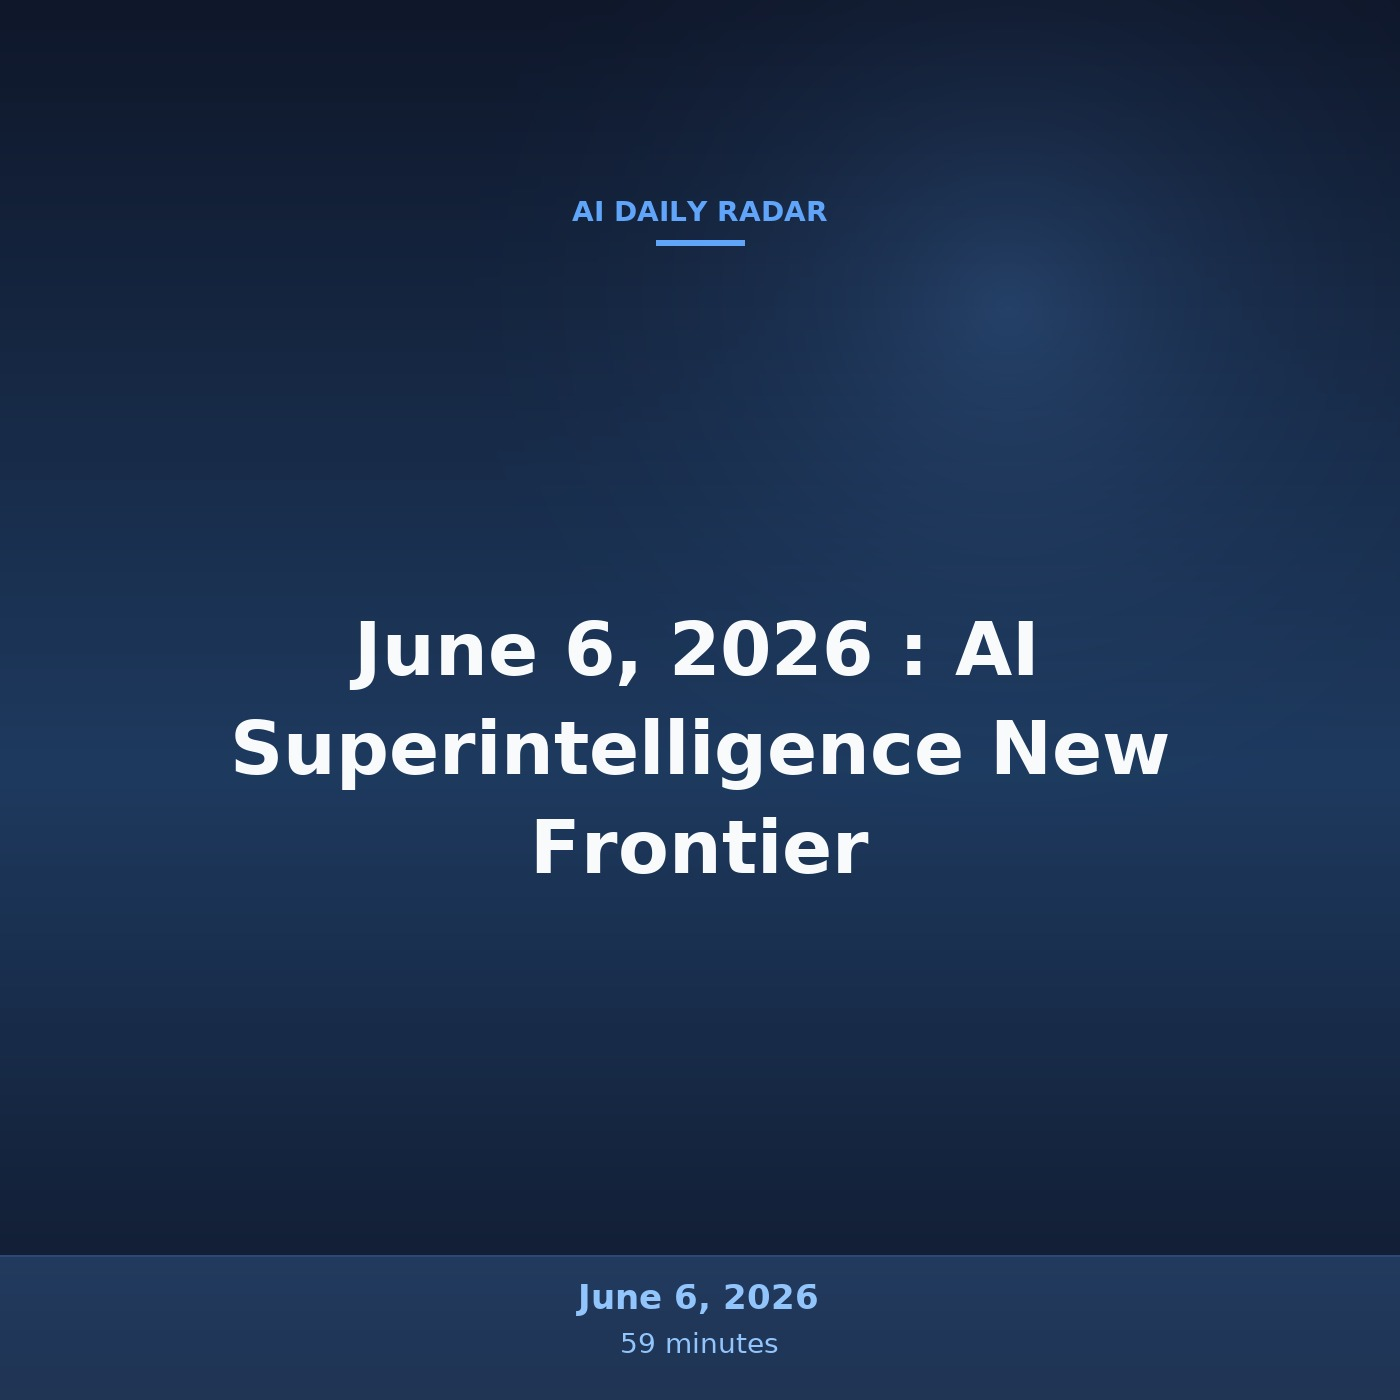
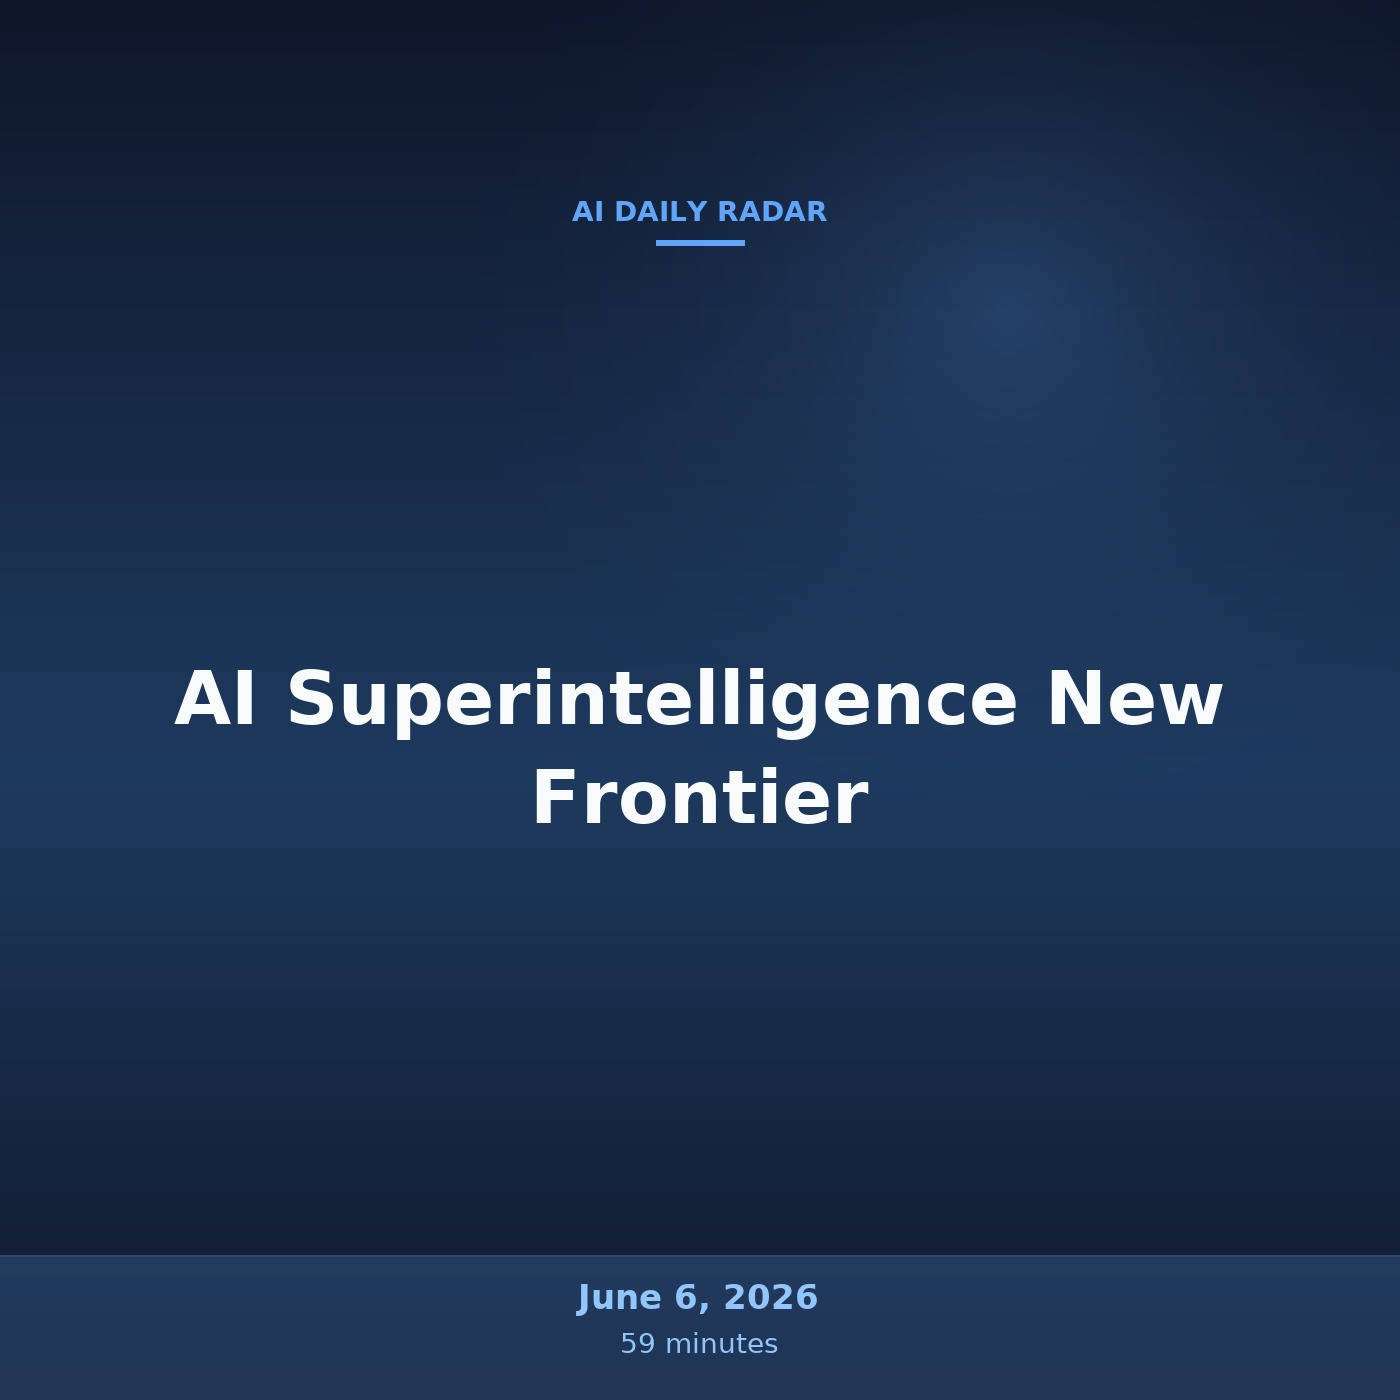
Fix episode cover tagline stripping date prefix
Cover generator was using the full episode_title ('Date : Tagline') instead of just the tagline. Fixed podcast_generator.py fallback to use topic label instead. Stripped date prefix from backfilled covers using chapters.json title field.

Changed region(s): [[0.1229, 0.43, 0.8907, 0.645]]

diff --git a/scripts/techradar-agent/podcast_generator.py b/scripts/techradar-agent/podcast_generator.py
@@ -248,7 +248,7 @@ def generate_podcast(
     cover_path = output_dir / f"{file_prefix}-{date_str}.jpg"
     try:
         from cover_generator import generate_episode_cover
-        generate_episode_cover(topic_label, tagline or episode_title, date, total_duration, cover_path)
+        generate_episode_cover(topic_label, tagline or topic_label, date, total_duration, cover_path)
         log(f"  Episode cover: {cover_path.name}")
     except Exception as e:
         log(f"  WARNING: episode cover generation failed: {e}")
